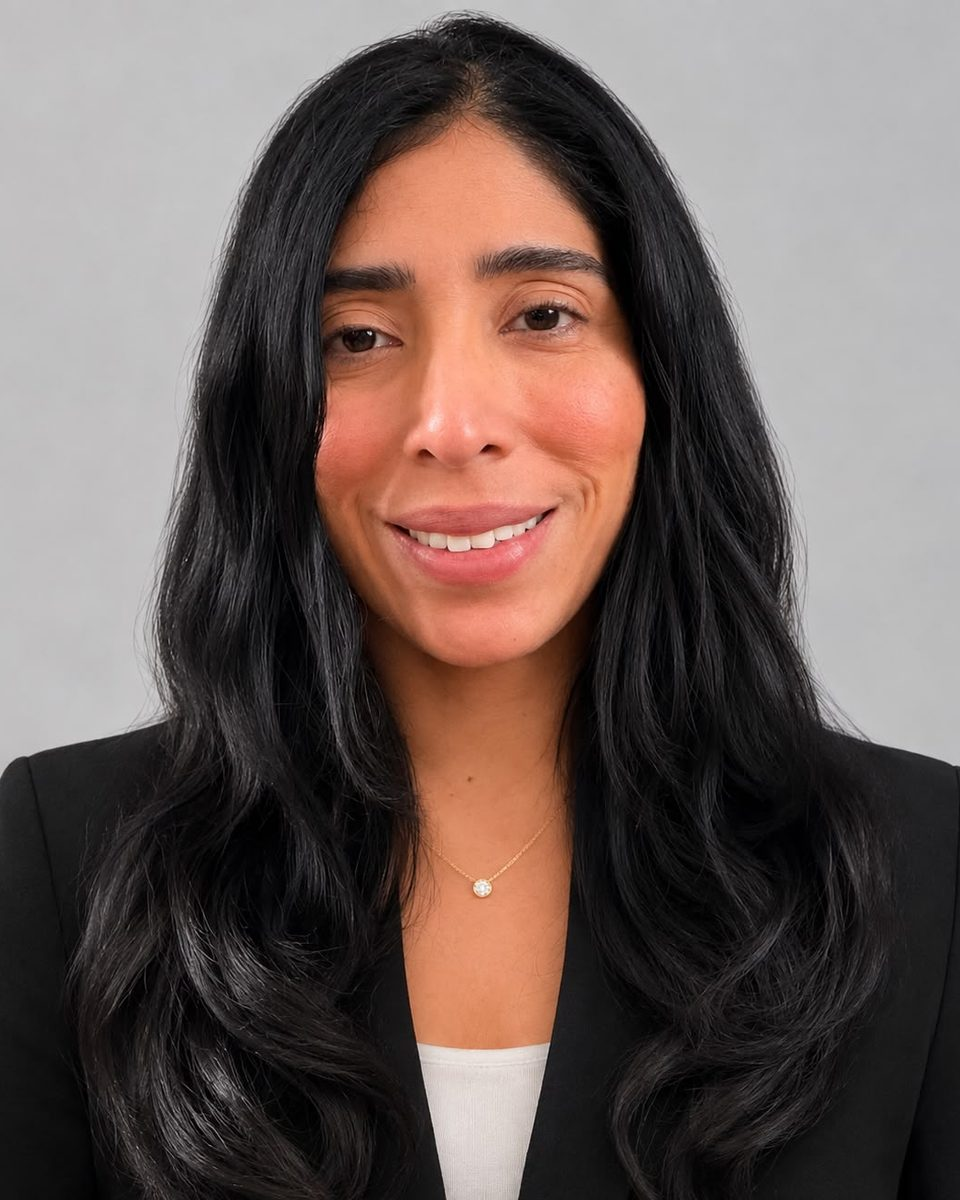
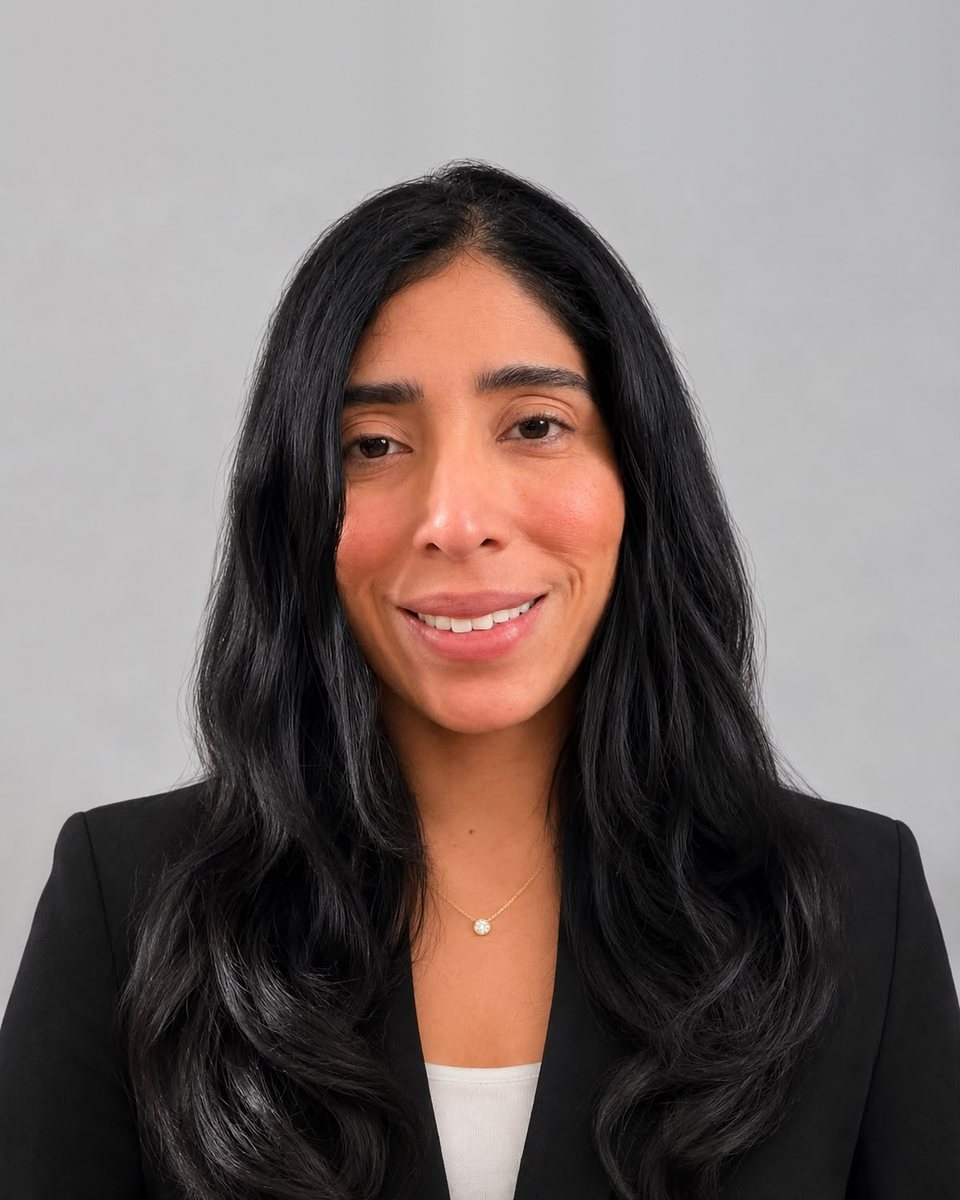
Fix Zuhail portrait sizing and framing

diff --git a/index.html b/index.html
@@ -22,7 +22,7 @@
   <link rel="preconnect" href="https://fonts.googleapis.com">
   <link rel="preconnect" href="https://fonts.gstatic.com" crossorigin>
   <link rel="stylesheet" href="https://fonts.googleapis.com/css2?family=Cormorant+Garamond:ital,wght@0,500;0,600;1,500&amp;family=Inter:wght@400;500;600&amp;display=swap">
-  <link rel="stylesheet" href="styles.css">
+  <link rel="stylesheet" href="styles.css?v=3">
 
   <script type="application/ld+json">
   {
@@ -91,10 +91,10 @@
         <figure class="portrait reveal">
           <div class="portrait-frame" aria-hidden="true"></div>
           <picture>
-            <source srcset="assets/zuhail-daley-640.webp 640w, assets/zuhail-daley-960.webp 960w" sizes="(max-width: 920px) 80vw, 420px" type="image/webp">
-            <img src="assets/zuhail-daley.jpg" srcset="assets/zuhail-daley-640.jpg 640w, assets/zuhail-daley.jpg 960w" sizes="(max-width: 920px) 80vw, 420px"
+            <source srcset="assets/zuhail-daley-v2-640.webp 640w, assets/zuhail-daley-v2-960.webp 960w" sizes="(max-width: 920px) 80vw, 420px" type="image/webp">
+            <img src="assets/zuhail-daley-v2-960.jpg" srcset="assets/zuhail-daley-v2-640.jpg 640w, assets/zuhail-daley-v2-960.jpg 960w" sizes="(max-width: 920px) 80vw, 420px"
                  alt="Professional portrait of Zuhail Daley" data-alt-es="Retrato profesional de Zuhail Daley"
-                 width="960" height="1200" fetchpriority="high" decoding="async"
+                 width="960" height="1200" style="height:auto" fetchpriority="high" decoding="async"
                  onerror="this.closest('picture').hidden=true; this.closest('figure').querySelector('.portrait-placeholder').hidden=false;">
           </picture>
           <div class="portrait-placeholder" hidden>
@@ -306,6 +306,6 @@
     <a href="#top" data-i18n="f.top">Back to top ↑</a>
   </footer>
 
-  <script src="script.js" defer></script>
+  <script src="script.js?v=3" defer></script>
 </body>
 </html>

diff --git a/styles.css b/styles.css
@@ -137,7 +137,7 @@ ul, ol { margin: 0; padding: 0; list-style: none; }
   box-shadow: 0 40px 70px -40px rgba(0, 0, 0, .7);
 }
 .portrait picture { display: block; position: relative; }
-.portrait img { display: block; height: auto; object-position: 50% 22%; background: #1A2C46; }
+.portrait img { display: block; height: auto; object-fit: contain; object-position: 50% 0; background: #C1C1C1; }
 .portrait picture[hidden], .portrait img[hidden], .portrait-placeholder[hidden] { display: none; }
 .portrait-placeholder {
   display: flex; flex-direction: column; align-items: center; justify-content: center; gap: 18px;
